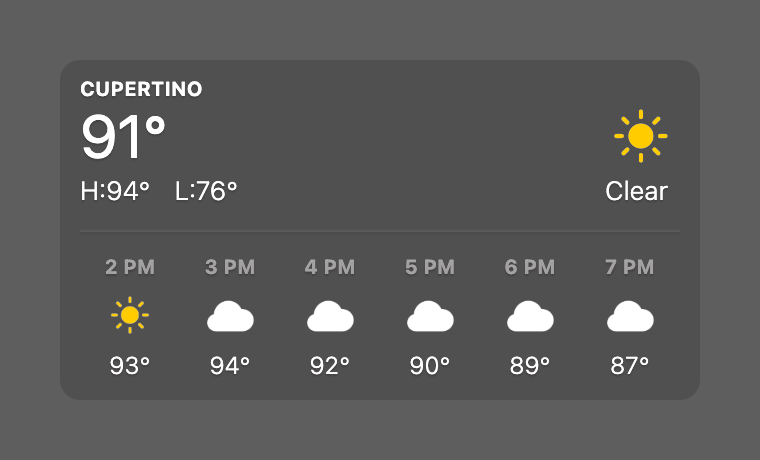
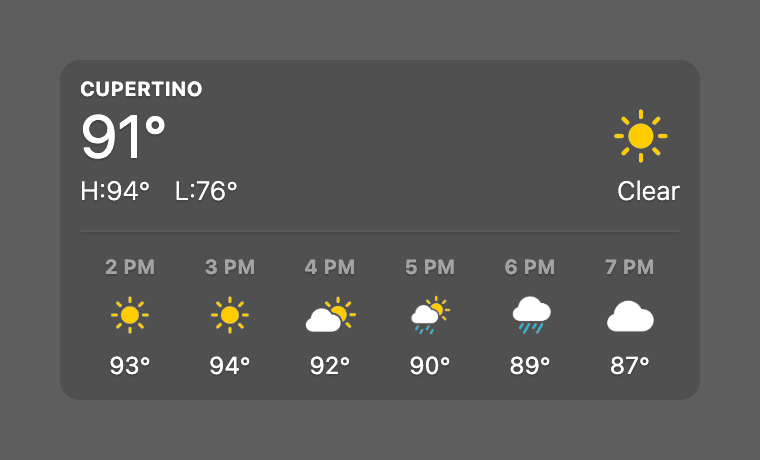
feat: add layout options and a cycling hourly strip
Add a `layout` option: 'hourly' (default, unchanged 170px shape) and
'compact', which drops the hourly strip for an 80px single-row panel.

The hourly strip's bottom row now cycles through temperature, chance of
precipitation, and wind speed with a direction arrow, cross-fading between
them. Temperature dwells longest (15s vs 5s), the cycle pauses while the
pointer is over the widget, and any reading the forecast omits is skipped.
Dwell times, fade length, and the metric list are all options.

Also:

- Request precipitation_probability and wind speed/direction from Open-Meteo,
  in mph.
- Add arrow.up to the SF Symbol renderer for the wind direction arrow, turned
  180 degrees from the reported direction so it points where the wind is going.
- Tint the precipitation figure with the rain icons' own blue (#00CAEC).
- Link an active NWS alert to the point-forecast page for the location, whose
  Hazards section carries the full alert text. The alerts API has no per-alert
  web page of its own.
- Drop the extra right margin on the condition text so it sits flush.
- Move the icon first-run sentinel to the newest symbol, so installs with an
  older icon set regenerate when that list grows.
- Refresh the screenshot, add compact and per-metric screenshots, and document
  the new options.

diff --git a/weather.widget/lib/render-symbols.swift b/weather.widget/lib/render-symbols.swift
@@ -14,7 +14,9 @@ let names = [
   "cloud.fog.fill","cloud.drizzle.fill","cloud.rain.fill","cloud.heavyrain.fill",
   "cloud.sun.rain.fill","cloud.moon.rain.fill","cloud.bolt.fill","cloud.bolt.rain.fill",
   "cloud.snow.fill","cloud.sleet.fill","cloud.hail.fill","wind","sun.haze.fill",
-  "exclamationmark.triangle.fill"
+  "exclamationmark.triangle.fill",
+  // Rotated per hour to show wind direction in the hourly strip.
+  "arrow.up"
 ]
 let outDir = CommandLine.arguments[1]
 let cfg = NSImage.SymbolConfiguration(pointSize: 200, weight: .regular)

diff --git a/README.md b/README.md
@@ -2,13 +2,57 @@
 
 [![Creative Commons](https://flat.badgen.net/badge/license/CC-BY-NC-4.0/orange)](https://creativecommons.org/licenses/by-nc/4.0/)
 
-A weather widget for [Übersicht](http://tracesof.net/uebersicht/). It shows current conditions and temperature, the day's high/low, an hourly forecast strip, and active severe-weather alerts. Icons are macOS SF Symbols, rendered as two-layer masks so they carry Apple's accent colors while still flipping with your light/dark theme. Colors are theme-aware, with sensible built-in defaults, so the widget works on its own.
+A weather widget for [Übersicht](http://tracesof.net/uebersicht/). It shows current conditions and temperature, the day's high/low, an hourly forecast strip that cycles through temperature, chance of precipitation, and wind, and active severe-weather alerts. Icons are macOS SF Symbols, rendered as two-layer masks so they carry Apple's accent colors while still flipping with your light/dark theme. Colors are theme-aware, with sensible built-in defaults, so the widget works on its own.
 
 Weather comes from [Open-Meteo](https://open-meteo.com), alerts from the US [National Weather Service](https://www.weather.gov) (US only), and location from [ipinfo.io](https://ipinfo.io). No API keys are required.
 
 ## Screenshot
 
 ![Screenshot](screenshot.png)
+
+## Layouts
+
+Set `layout` near the top of `index.coffee`:
+
+| Value | Height | Shows |
+|-------|--------|-------|
+| `'hourly'` (default) | 170px | Everything, including the hourly strip below the divider |
+| `'compact'` | 80px | The header block only: location, temperature, high/low, condition |
+
+![Compact layout](screenshots/compact.png)
+
+## Hourly strip
+
+The bottom row of each hour cycles through three readings, cross-fading between them. Temperature holds longest, since it is the one you usually want; the other two are quicker looks on the way back round.
+
+| Reading | Shown as | Default dwell |
+|---------|----------|---------------|
+| Temperature | `72°` | 15s |
+| Chance of precipitation | `45%`, tinted in the same blue as the rain icons | 5s |
+| Wind | `12` mph with an arrow pointing the way the wind is blowing | 5s |
+
+![Precipitation](screenshots/hourly-precipitation.png)
+
+![Wind](screenshots/hourly-wind.png)
+
+The cycle pauses while your pointer is over the widget, so a reading does not swap away mid-glance. Any reading the forecast does not include is skipped.
+
+## Options
+
+All near the top of `index.coffee`:
+
+| Option | Default | What it does |
+|--------|---------|--------------|
+| `widgetEnabled` | `true` | Set `false` to hide the widget without uninstalling it |
+| `layout` | `'hourly'` | `'hourly'` or `'compact'` (see above) |
+| `hourlyMetrics` | `['temp', 'precip', 'wind']` | Which readings the strip cycles, and in what order. A single entry pins that reading and never cycles |
+| `hourlyDwellSeconds` | `temp: 15, precip: 5, wind: 5` | How long each reading holds |
+| `hourlyFadeSeconds` | `1.2` | Length of the cross-fade between readings. `0` swaps instantly |
+| `refreshFrequency` | `900000` | How often the forecast is fetched, in milliseconds (15 minutes) |
+
+## Alerts
+
+When the National Weather Service has an active alert for your location, it appears at the top right, colored by severity. Click it to open the NWS point-forecast page for your coordinates, whose Hazards section links the full text of every active alert.
 
 ## Icons: generated on first run (not shipped)
 
